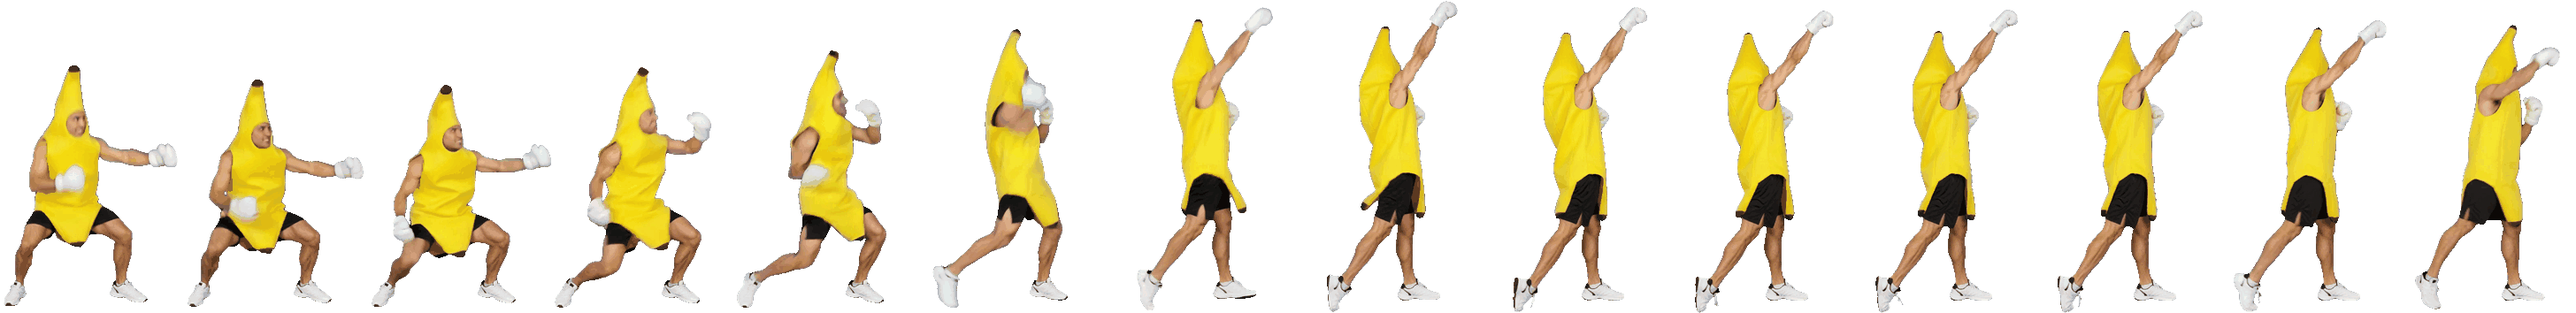
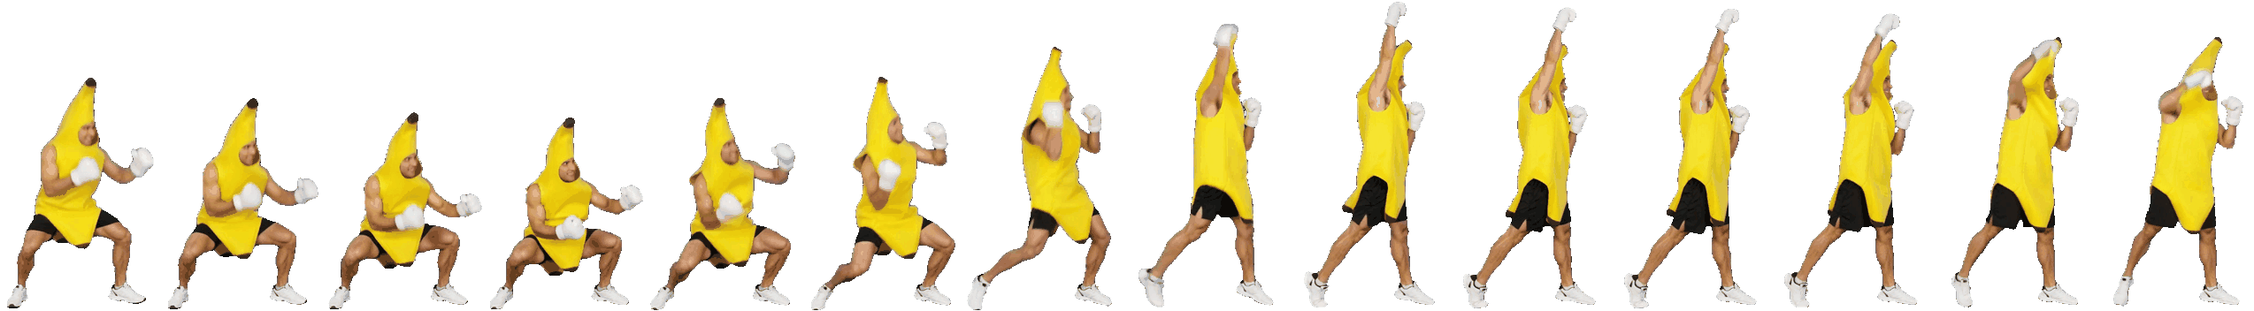
uppercut ako v MK, BABALITY batoľa v oblečení postáv, nápovedy po anglicky

Changed region(s): [[0.0, 0.0, 1.0, 1.0]]

diff --git a/sw.js b/sw.js
@@ -1,6 +1,6 @@
-// Service worker: hra beží po prvom otvorení aj bez internetu (verzia 57bd47a265).
-const CACHE = 'mk12-57bd47a265';
-const FILES = ["./", "index.html", "manifest.webmanifest", "assets/bananac/block.png", "assets/bananac/build.png", "assets/bananac/dance.png", "assets/bananac/dizzy.png", "assets/bananac/fall.png", "assets/bananac/hit.png", "assets/bananac/idle.png", "assets/bananac/jump.png", "assets/bananac/kick.png", "assets/bananac/punch.png", "assets/bananac/sweep.png", "assets/bananac/throw.png", "assets/bananac/uppercut.png", "assets/bananac/walk.png", "assets/bananac/win.png", "assets/boss/block.png", "assets/boss/dance.png", "assets/boss/dizzy.png", "assets/boss/fall.png", "assets/boss/hit.png", "assets/boss/idle.png", "assets/boss/jump.png", "assets/boss/kiai.png", "assets/boss/kick.png", "assets/boss/punch.png", "assets/boss/special.png", "assets/boss/uppercut.png", "assets/boss/walk.png", "assets/boss/win.png", "assets/manifest.js", "assets/matusko/block.png", "assets/matusko/dance.png", "assets/matusko/dizzy.png", "assets/matusko/fall.png", "assets/matusko/flip.png", "assets/matusko/hit.png", "assets/matusko/idle.png", "assets/matusko/jump.png", "assets/matusko/kiai.png", "assets/matusko/kick.png", "assets/matusko/kroj.png", "assets/matusko/punch.png", "assets/matusko/special.png", "assets/matusko/sweep.png", "assets/matusko/uppercut.png", "assets/matusko/walk.png", "assets/matusko/win.png", "assets/music/fight.mp3", "assets/music/fight_bridge.mp3", "assets/music/fight_camp.mp3", "assets/music/fight_dojo.mp3", "assets/music/fight_folk.mp3", "assets/music/fight_kombat.mp3", "assets/music/fight_mountain.mp3", "assets/music/result.mp3", "assets/music/title.mp3", "assets/ninja/block.png", "assets/ninja/dance.png", "assets/ninja/dizzy.png", "assets/ninja/fall.png", "assets/ninja/hit.png", "assets/ninja/idle.png", "assets/ninja/jump.png", "assets/ninja/kiai.png", "assets/ninja/kick.png", "assets/ninja/punch.png", "assets/ninja/special.png", "assets/ninja/sweep.png", "assets/ninja/uppercut.png", "assets/ninja/walk.png", "assets/ninja/win.png", "assets/rocky/bite.png", "assets/rocky/block.png", "assets/rocky/dance.png", "assets/rocky/fall.png", "assets/rocky/hit.png", "assets/rocky/idle.png", "assets/rocky/lick.png", "assets/rocky/run.png", "assets/rocky/win.png", "assets/sfx/baby.mp3", "assets/sfx/ballkick.mp3", "assets/sfx/bark.mp3", "assets/sfx/block.mp3", "assets/sfx/bubble.mp3", "assets/sfx/crack.mp3", "assets/sfx/crowd.mp3", "assets/sfx/fall.mp3", "assets/sfx/fire.mp3", "assets/sfx/fireball.mp3", "assets/sfx/folklority.mp3", "assets/sfx/freeze.mp3", "assets/sfx/glitch.mp3", "assets/sfx/heligonka.mp3", "assets/sfx/husle.mp3", "assets/sfx/imp_alarm.mp3", "assets/sfx/imp_beep.mp3", "assets/sfx/imp_meeting.mp3", "assets/sfx/imp_pop.mp3", "assets/sfx/imp_sus.mp3", "assets/sfx/imp_vent.mp3", "assets/sfx/kiai.mp3", "assets/sfx/kick.mp3", "assets/sfx/kick2.mp3", "assets/sfx/lick.mp3", "assets/sfx/menu.mp3", "assets/sfx/notes.mp3", "assets/sfx/pop.mp3", "assets/sfx/punch.mp3", "assets/sfx/punch2.mp3", "assets/sfx/punch3.mp3", "assets/sfx/respawn.mp3", "assets/sfx/rewind.mp3", "assets/sfx/rope.mp3", "assets/sfx/slip.mp3", "assets/sfx/soul.mp3", "assets/sfx/splash.mp3", "assets/sfx/sweep.mp3", "assets/sfx/teleport.mp3", "assets/sfx/thunder.mp3", "assets/sfx/uppercut.mp3", "assets/sfx/whoosh.mp3", "assets/simon/block.png", "assets/simon/dance.png", "assets/simon/dizzy.png", "assets/simon/fall.png", "assets/simon/flip.png", "assets/simon/hit.png", "assets/simon/idle.png", "assets/simon/jump.png", "assets/simon/kiai.png", "assets/simon/kick.png", "assets/simon/kroj.png", "assets/simon/punch.png", "assets/simon/special.png", "assets/simon/sweep.png", "assets/simon/uppercut.png", "assets/simon/walk.png", "assets/simon/win.png", "assets/stages/dojo.png", "assets/stages/hora.png", "assets/stages/more.png", "assets/stages/most.png", "assets/stages/potok.mp4", "assets/stages/potok.png", "assets/stages/tabor.png", "assets/stages/zahrada.png", "assets/ui/cake_matusko.png", "assets/ui/cake_simon.png", "assets/ui/dragon.png", "assets/ui/emblem.png", "assets/ui/icon192.png", "assets/ui/icon512.png", "assets/ui/portrait_boss.png", "assets/ui/portrait_glitch.png", "assets/ui/portrait_matusko.png", "assets/ui/portrait_ninja.png", "assets/ui/portrait_simon.png", "assets/ui/portrait_vodnik.png", "assets/ui/teacup.png", "assets/ui/toasty.png", "assets/vodnik/block.png", "assets/vodnik/bubble.png", "assets/vodnik/cup.png", "assets/vodnik/dance.png", "assets/vodnik/dizzy.png", "assets/vodnik/fall.png", "assets/vodnik/hit.png", "assets/vodnik/idle.png", "assets/vodnik/jump.png", "assets/vodnik/kick.png", "assets/vodnik/pour.png", "assets/vodnik/punch.png", "assets/vodnik/sweep.png", "assets/vodnik/uppercut.png", "assets/vodnik/walk.png", "assets/vodnik/win.png", "assets/voice/babality.mp3", "assets/voice/bananac_wins.mp3", "assets/voice/birthday.mp3", "assets/voice/blocky_wins.mp3", "assets/voice/boss_wins.mp3", "assets/voice/bosslaugh.mp3", "assets/voice/cerveny_wins.mp3", "assets/voice/creeperality.mp3", "assets/voice/destiny.mp3", "assets/voice/draw.mp3", "assets/voice/excellent.mp3", "assets/voice/fight.mp3", "assets/voice/finish.mp3", "assets/voice/flawless.mp3", "assets/voice/folklority.mp3", "assets/voice/friendship.mp3", "assets/voice/futbality.mp3", "assets/voice/glitch_wins.mp3", "assets/voice/goal.mp3", "assets/voice/impostor_wins.mp3", "assets/voice/kai_wins.mp3", "assets/voice/matusko_wins.mp3", "assets/voice/moreality.mp3", "assets/voice/ninja_fire_wins.mp3", "assets/voice/ninja_ice_wins.mp3", "assets/voice/ninja_shadow_wins.mp3", "assets/voice/oranzovy_wins.mp3", "assets/voice/outstanding.mp3", "assets/voice/podsem.mp3", "assets/voice/rocky_wins.mp3", "assets/voice/rockyality.mp3", "assets/voice/round1.mp3", "assets/voice/round2.mp3", "assets/voice/round3.mp3", "assets/voice/simon_wins.mp3", "assets/voice/ssj_bananac.mp3", "assets/voice/ssj_blocky.mp3", "assets/voice/ssj_boss.mp3", "assets/voice/ssj_cerveny.mp3", "assets/voice/ssj_glitch.mp3", "assets/voice/ssj_impostor.mp3", "assets/voice/ssj_kai.mp3", "assets/voice/ssj_matusko.mp3", "assets/voice/ssj_ninja_fire.mp3", "assets/voice/ssj_ninja_ice.mp3", "assets/voice/ssj_ninja_shadow.mp3", "assets/voice/ssj_oranzovy.mp3", "assets/voice/ssj_rocky.mp3", "assets/voice/ssj_simon.mp3", "assets/voice/ssj_tien.mp3", "assets/voice/ssj_tien_xxl.mp3", "assets/voice/ssj_vodnik.mp3", "assets/voice/ssj_zlaty.mp3", "assets/voice/tien_wins.mp3", "assets/voice/tien_xxl_wins.mp3", "assets/voice/title.mp3", "assets/voice/toasty.mp3", "assets/voice/vodnik_wins.mp3", "assets/voice/zlaty_wins.mp3", "bananac.js", "blocky.js", "credits.js", "enemies.js", "finishers.js", "game.js", "glitch.js", "impostor.js", "ladder.js", "moves.js", "net.js", "peerjs.min.js", "rocky.js", "stages.js", "stats.js", "trening.js", "vodnik.js"];
+// Service worker: hra beží po prvom otvorení aj bez internetu (verzia 23117de5a0).
+const CACHE = 'mk12-23117de5a0';
+const FILES = ["./", "index.html", "manifest.webmanifest", "assets/bananac/block.png", "assets/bananac/build.png", "assets/bananac/dance.png", "assets/bananac/dizzy.png", "assets/bananac/fall.png", "assets/bananac/hit.png", "assets/bananac/idle.png", "assets/bananac/jump.png", "assets/bananac/kick.png", "assets/bananac/punch.png", "assets/bananac/sweep.png", "assets/bananac/throw.png", "assets/bananac/uppercut.png", "assets/bananac/walk.png", "assets/bananac/win.png", "assets/boss/block.png", "assets/boss/dance.png", "assets/boss/dizzy.png", "assets/boss/fall.png", "assets/boss/hit.png", "assets/boss/idle.png", "assets/boss/jump.png", "assets/boss/kiai.png", "assets/boss/kick.png", "assets/boss/punch.png", "assets/boss/special.png", "assets/boss/uppercut.png", "assets/boss/walk.png", "assets/boss/win.png", "assets/manifest.js", "assets/matusko/block.png", "assets/matusko/dance.png", "assets/matusko/dizzy.png", "assets/matusko/fall.png", "assets/matusko/flip.png", "assets/matusko/hit.png", "assets/matusko/idle.png", "assets/matusko/jump.png", "assets/matusko/kiai.png", "assets/matusko/kick.png", "assets/matusko/kroj.png", "assets/matusko/punch.png", "assets/matusko/special.png", "assets/matusko/sweep.png", "assets/matusko/uppercut.png", "assets/matusko/walk.png", "assets/matusko/win.png", "assets/music/fight.mp3", "assets/music/fight_bridge.mp3", "assets/music/fight_camp.mp3", "assets/music/fight_dojo.mp3", "assets/music/fight_folk.mp3", "assets/music/fight_kombat.mp3", "assets/music/fight_mountain.mp3", "assets/music/result.mp3", "assets/music/title.mp3", "assets/ninja/block.png", "assets/ninja/dance.png", "assets/ninja/dizzy.png", "assets/ninja/fall.png", "assets/ninja/hit.png", "assets/ninja/idle.png", "assets/ninja/jump.png", "assets/ninja/kiai.png", "assets/ninja/kick.png", "assets/ninja/punch.png", "assets/ninja/special.png", "assets/ninja/sweep.png", "assets/ninja/uppercut.png", "assets/ninja/walk.png", "assets/ninja/win.png", "assets/rocky/bite.png", "assets/rocky/block.png", "assets/rocky/dance.png", "assets/rocky/fall.png", "assets/rocky/hit.png", "assets/rocky/idle.png", "assets/rocky/lick.png", "assets/rocky/run.png", "assets/rocky/win.png", "assets/sfx/baby.mp3", "assets/sfx/ballkick.mp3", "assets/sfx/bark.mp3", "assets/sfx/block.mp3", "assets/sfx/bubble.mp3", "assets/sfx/crack.mp3", "assets/sfx/crowd.mp3", "assets/sfx/fall.mp3", "assets/sfx/fire.mp3", "assets/sfx/fireball.mp3", "assets/sfx/folklority.mp3", "assets/sfx/freeze.mp3", "assets/sfx/glitch.mp3", "assets/sfx/heligonka.mp3", "assets/sfx/husle.mp3", "assets/sfx/imp_alarm.mp3", "assets/sfx/imp_beep.mp3", "assets/sfx/imp_meeting.mp3", "assets/sfx/imp_pop.mp3", "assets/sfx/imp_sus.mp3", "assets/sfx/imp_vent.mp3", "assets/sfx/kiai.mp3", "assets/sfx/kick.mp3", "assets/sfx/kick2.mp3", "assets/sfx/lick.mp3", "assets/sfx/menu.mp3", "assets/sfx/notes.mp3", "assets/sfx/pop.mp3", "assets/sfx/punch.mp3", "assets/sfx/punch2.mp3", "assets/sfx/punch3.mp3", "assets/sfx/respawn.mp3", "assets/sfx/rewind.mp3", "assets/sfx/rope.mp3", "assets/sfx/slip.mp3", "assets/sfx/soul.mp3", "assets/sfx/splash.mp3", "assets/sfx/sweep.mp3", "assets/sfx/teleport.mp3", "assets/sfx/thunder.mp3", "assets/sfx/uppercut.mp3", "assets/sfx/whoosh.mp3", "assets/simon/block.png", "assets/simon/dance.png", "assets/simon/dizzy.png", "assets/simon/fall.png", "assets/simon/flip.png", "assets/simon/hit.png", "assets/simon/idle.png", "assets/simon/jump.png", "assets/simon/kiai.png", "assets/simon/kick.png", "assets/simon/kroj.png", "assets/simon/punch.png", "assets/simon/special.png", "assets/simon/sweep.png", "assets/simon/uppercut.png", "assets/simon/walk.png", "assets/simon/win.png", "assets/stages/dojo.png", "assets/stages/hora.png", "assets/stages/more.png", "assets/stages/most.png", "assets/stages/potok.mp4", "assets/stages/potok.png", "assets/stages/tabor.png", "assets/stages/zahrada.png", "assets/ui/baby_boss.png", "assets/ui/baby_matusko.png", "assets/ui/baby_ninja.png", "assets/ui/baby_simon.png", "assets/ui/baby_vodnik.png", "assets/ui/cake_matusko.png", "assets/ui/cake_simon.png", "assets/ui/dragon.png", "assets/ui/emblem.png", "assets/ui/icon192.png", "assets/ui/icon512.png", "assets/ui/portrait_boss.png", "assets/ui/portrait_glitch.png", "assets/ui/portrait_matusko.png", "assets/ui/portrait_ninja.png", "assets/ui/portrait_simon.png", "assets/ui/portrait_vodnik.png", "assets/ui/teacup.png", "assets/ui/toasty.png", "assets/vodnik/block.png", "assets/vodnik/bubble.png", "assets/vodnik/cup.png", "assets/vodnik/dance.png", "assets/vodnik/dizzy.png", "assets/vodnik/fall.png", "assets/vodnik/hit.png", "assets/vodnik/idle.png", "assets/vodnik/jump.png", "assets/vodnik/kick.png", "assets/vodnik/pour.png", "assets/vodnik/punch.png", "assets/vodnik/sweep.png", "assets/vodnik/uppercut.png", "assets/vodnik/walk.png", "assets/vodnik/win.png", "assets/voice/babality.mp3", "assets/voice/bananac_wins.mp3", "assets/voice/birthday.mp3", "assets/voice/blocky_wins.mp3", "assets/voice/boss_wins.mp3", "assets/voice/bosslaugh.mp3", "assets/voice/cerveny_wins.mp3", "assets/voice/creeperality.mp3", "assets/voice/destiny.mp3", "assets/voice/draw.mp3", "assets/voice/excellent.mp3", "assets/voice/fight.mp3", "assets/voice/finish.mp3", "assets/voice/flawless.mp3", "assets/voice/folklority.mp3", "assets/voice/friendship.mp3", "assets/voice/futbality.mp3", "assets/voice/glitch_wins.mp3", "assets/voice/goal.mp3", "assets/voice/impostor_wins.mp3", "assets/voice/kai_wins.mp3", "assets/voice/matusko_wins.mp3", "assets/voice/moreality.mp3", "assets/voice/ninja_fire_wins.mp3", "assets/voice/ninja_ice_wins.mp3", "assets/voice/ninja_shadow_wins.mp3", "assets/voice/oranzovy_wins.mp3", "assets/voice/outstanding.mp3", "assets/voice/podsem.mp3", "assets/voice/rocky_wins.mp3", "assets/voice/rockyality.mp3", "assets/voice/round1.mp3", "assets/voice/round2.mp3", "assets/voice/round3.mp3", "assets/voice/simon_wins.mp3", "assets/voice/ssj_bananac.mp3", "assets/voice/ssj_blocky.mp3", "assets/voice/ssj_boss.mp3", "assets/voice/ssj_cerveny.mp3", "assets/voice/ssj_glitch.mp3", "assets/voice/ssj_impostor.mp3", "assets/voice/ssj_kai.mp3", "assets/voice/ssj_matusko.mp3", "assets/voice/ssj_ninja_fire.mp3", "assets/voice/ssj_ninja_ice.mp3", "assets/voice/ssj_ninja_shadow.mp3", "assets/voice/ssj_oranzovy.mp3", "assets/voice/ssj_rocky.mp3", "assets/voice/ssj_simon.mp3", "assets/voice/ssj_tien.mp3", "assets/voice/ssj_tien_xxl.mp3", "assets/voice/ssj_vodnik.mp3", "assets/voice/ssj_zlaty.mp3", "assets/voice/tien_wins.mp3", "assets/voice/tien_xxl_wins.mp3", "assets/voice/title.mp3", "assets/voice/toasty.mp3", "assets/voice/vodnik_wins.mp3", "assets/voice/zlaty_wins.mp3", "bananac.js", "blocky.js", "credits.js", "enemies.js", "finishers.js", "game.js", "glitch.js", "impostor.js", "ladder.js", "moves.js", "net.js", "peerjs.min.js", "rocky.js", "stages.js", "stats.js", "trening.js", "vodnik.js"];
 self.addEventListener('install', e => e.waitUntil(caches.open(CACHE).then(c => c.addAll(FILES)).then(() => self.skipWaiting())));
 self.addEventListener('activate', e => e.waitUntil(caches.keys().then(ks => Promise.all(ks.filter(k => k !== CACHE).map(k => caches.delete(k)))).then(() => self.clients.claim())));
 self.addEventListener('fetch', e => {

diff --git a/assets/manifest.js b/assets/manifest.js
@@ -160,10 +160,10 @@ window.MK_ASSETS = {
     "uppercut": {
      "src": "assets/matusko/uppercut.png",
      "frames": 14,
-     "w": 122,
-     "h": 152,
-     "ax": 50,
-     "ay": 151,
+     "w": 103,
+     "h": 196,
+     "ax": 52,
+     "ay": 196,
      "fps": 15.0,
      "hi": 2,
      "src2": "assets/matusko/uppercut@2.png"
@@ -514,10 +514,10 @@ window.MK_ASSETS = {
     "uppercut": {
      "src": "assets/boss/uppercut.png",
      "frames": 14,
-     "w": 114,
-     "h": 184,
-     "ax": 43,
-     "ay": 183,
+     "w": 102,
+     "h": 191,
+     "ax": 46,
+     "ay": 189,
      "fps": 15.0,
      "hi": 2,
      "src2": "assets/boss/uppercut@2.png"
@@ -1017,10 +1017,10 @@ window.MK_ASSETS = {
     "uppercut": {
      "src": "assets/bananac/uppercut.png",
      "frames": 14,
-     "w": 104,
-     "h": 177,
-     "ax": 42,
-     "ay": 173,
+     "w": 91,
+     "h": 176,
+     "ax": 47,
+     "ay": 175,
      "fps": 15.0,
      "hi": 2,
      "src2": "assets/bananac/uppercut@2.png"
@@ -1413,6 +1413,11 @@ window.MK_ASSETS = {
   }
  ],
  "images": {
+  "baby_boss": "assets/ui/baby_boss.png",
+  "baby_matusko": "assets/ui/baby_matusko.png",
+  "baby_ninja": "assets/ui/baby_ninja.png",
+  "baby_simon": "assets/ui/baby_simon.png",
+  "baby_vodnik": "assets/ui/baby_vodnik.png",
   "cake_matusko": "assets/ui/cake_matusko.png",
   "cake_simon": "assets/ui/cake_simon.png",
   "dragon": "assets/ui/dragon.png",

diff --git a/game.js b/game.js
@@ -1245,8 +1245,13 @@ function drawKrojHat(f) {
 }
 function drawBaby(f) {
   const x = Math.round(f.x), y = f.y, bounce = Math.abs(Math.sin(f.t / 8)) * 4;
-  const im = IMG[`img/baby_${f.id}`];
-  if (im) { ctx.drawImage(im, Math.round(x - im.width / 2), Math.round(y - im.height - bounce)); }
+  const src = IMG[`img/baby_${f.id}`] || IMG[`img/baby_${f.sid}`];
+  const im = IMG[`img/baby_${f.id}`] || (src && paletteStrip(f, 'baby', src));   // prefarbení (GOLDEN, ICE/SHADOW NINJA): bábätko predlohy vo svojich farbách
+  if (im) {                              // batoľa v oblečení postavy ako v MK2 (Peťo); obrázky z assets/ui sú 2× → kresliť polovične (ostré na PC)
+    const s = (typeof HTMLImageElement !== 'undefined' && src instanceof HTMLImageElement && src.height > 120) ? 0.5 : 1;
+    const w = Math.round(im.width * s), h = Math.round(im.height * s);
+    ctx.drawImage(im, Math.round(x - w / 2), Math.round(y - h - bounce), w, h);
+  }
   else {
     ctx.fillStyle = f.def.gi; ctx.fillRect(x - 12, y - 22 - bounce, 10, 16); ctx.fillRect(x + 2, y - 22 - bounce, 10, 16);
     ctx.fillStyle = f.def.gi; ctx.fillRect(x - 11, y - 44 - bounce, 22, 24);

diff --git a/enemies.js b/enemies.js
@@ -599,8 +599,8 @@
         ctx.save(); ctx.globalAlpha = a; api.text(tx.txt, o.x, o.y - 150 * S(o) - tx.t * 0.15, 12, 'center', tx.c); ctx.restore();
       }
     });
-    const MOVES_TXT = { fire: 'LANO: VZAD VPRED ÚDER · OHNIVÝ KOP: ↓ VPRED KOP', ice: 'ĽAD. GUĽA: ↓ VPRED ÚDER · ŠMYK: VZAD + ÚDER + KOP',
-                        shadow: 'NEVIDITEĽNOSŤ: ↑ ↑ ↓ + KIAI', boss: 'BLESK: ↓ VPRED ÚDER · TELEPORT: ↓ ↑ · TORPÉDO: VZAD VZAD VPRED' };
+    const MOVES_TXT = { fire: 'ROPE: VZAD VPRED ÚDER · FIRE KICK: ↓ VPRED KOP', ice: 'ICE BALL: ↓ VPRED ÚDER · SLIDE: VZAD + ÚDER + KOP',   // mená po anglicky (Peťo)
+                        shadow: 'INVISIBILITY: ↑ ↑ ↓ + KIAI', boss: 'LIGHTNING: ↓ VPRED ÚDER · TELEPORT: ↓ ↑ · TORPEDO: VZAD VZAD VPRED' };
     hooks.drawHud.push(F => {            // nápoveda kombá v 1. kole pre človeka, ktorý hrá za nepriateľa
       if (F.round !== 1 || !(F.phase === 'intro' || (F.phase === 'fight' && F.t < 240))) return;
       F.fighters.forEach((f, i) => {

diff --git a/vodnik.js b/vodnik.js
@@ -148,7 +148,7 @@
       if (!has('slip')) snd('slip', 0.6);
       drops(F, o.x, GROUND - 6, 12, 2.6);
       st(F).used[pl.s].slip++;
-      say(F, 'ŠMYK!', o.x, o.y - HEIGHT(o) - 30, '#ffe066', 50, 14);
+      say(F, 'SLIP!', o.x, o.y - HEIGHT(o) - 30, '#ffe066', 50, 14);
     }
 
     // ================================================================ vstup (idle/walk/block, pred moves.js: unshift)
@@ -469,7 +469,7 @@
         if (home(F)) api.text('DOMA +25 %', i === 0 ? 12 + 132 : W - 12 - 132, 61, 7, i === 0 ? 'left' : 'right', WATER.light);
         ctx.restore();
         if (F.round === 1 && (F.phase === 'intro' || (F.phase === 'fight' && F.t < 240)) && api.inputKind(i) !== 'cpu')
-          api.text('BUBLINA: ♪ · HRNČEK: ↓ VPRED ÚDER · MLÁKA: ↓ ↓ KOP', i === 0 ? 8 : W - 30, 254, 7, i === 0 ? 'left' : 'right', '#b8f0c0');
+          api.text('BUBBLE: ♪ · SOUL CUP: ↓ VPRED ÚDER · PUDDLE: ↓ ↓ KOP', i === 0 ? 8 : W - 30, 254, 7, i === 0 ? 'left' : 'right', '#b8f0c0');
       });
     });
 

diff --git a/bananac.js b/bananac.js
@@ -307,7 +307,7 @@
       hitFrom(a, o, { name: 'bananac_peel', dmg: PEEL_DMG, blockable: false, launch: 2.6, push: 1, hitstun: 16, sound: 'slip', sx: o.x, sy: GROUND - 14 }, dir);
       B.used[gf.s].slip++;
       F.fx.push({ kind: 'p14peel', x: gf.x, y: GROUND - 6, vx: -dir * 1.6, vy: -3.6, rot: 0, vr: 0.35 * -dir, t: 0, life: 40 });
-      say(F, 'ŠMYK!', o.x, o.y - HEIGHT(o) - 24, '#ffe066', 50, 14);
+      say(F, 'SLIP!', o.x, o.y - HEIGHT(o) - 24, '#ffe066', 50, 14);
     }
     function stepGifts(F) {
       const B = st(F);

diff --git a/index.html b/index.html
@@ -39,7 +39,7 @@
 <meta name="theme-color" content="#000000">
 <link rel="apple-touch-icon" href="assets/ui/icon192.png">
 <meta name="apple-mobile-web-app-capable" content="yes">
-<script>window.MK_BUILD = "v 57bd47 \u00b7 2. 10. 14:05";</script>
+<script>window.MK_BUILD = "v 23117d \u00b7 2. 10. 14:34";</script>
 </head>
 <body>
 <canvas id="game" width="480" height="270"></canvas>
